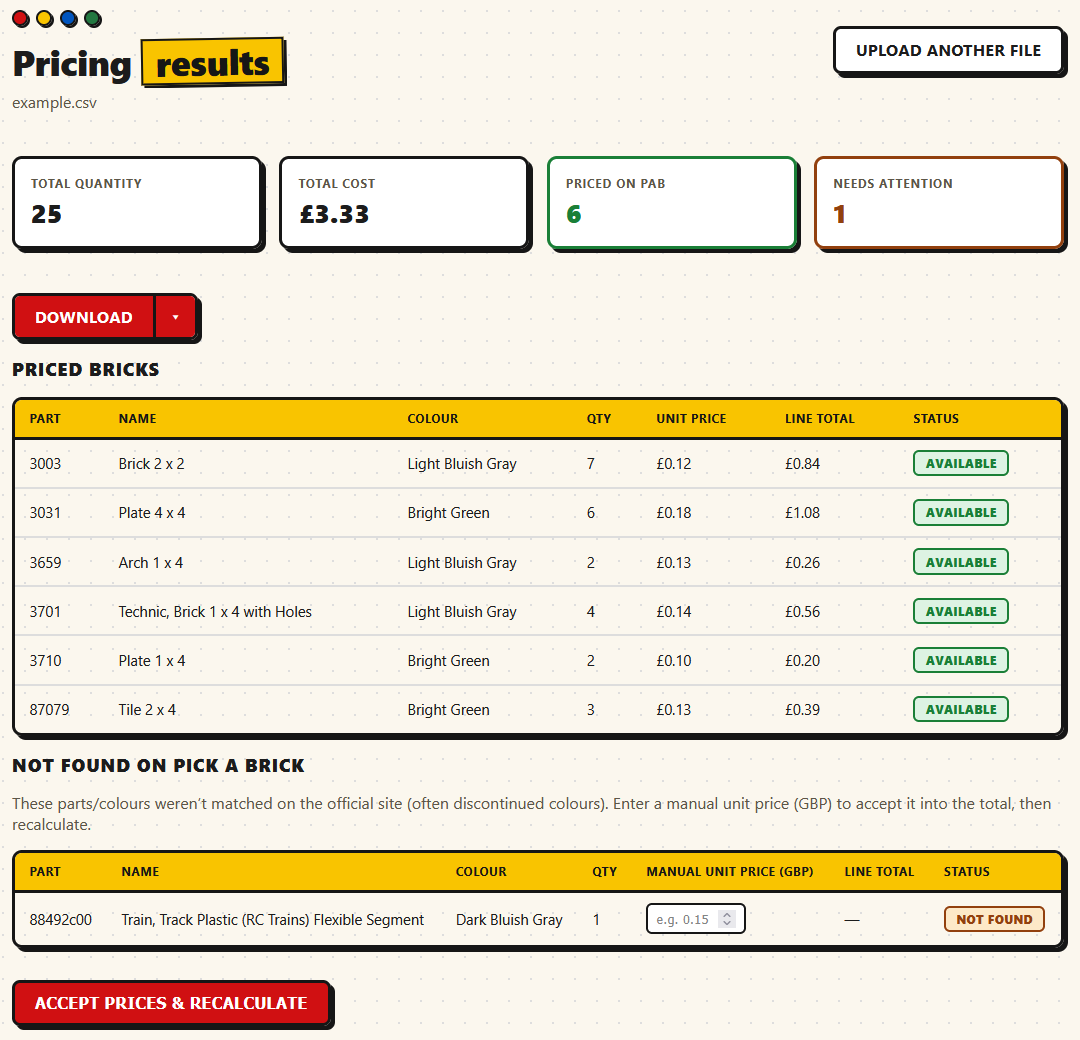
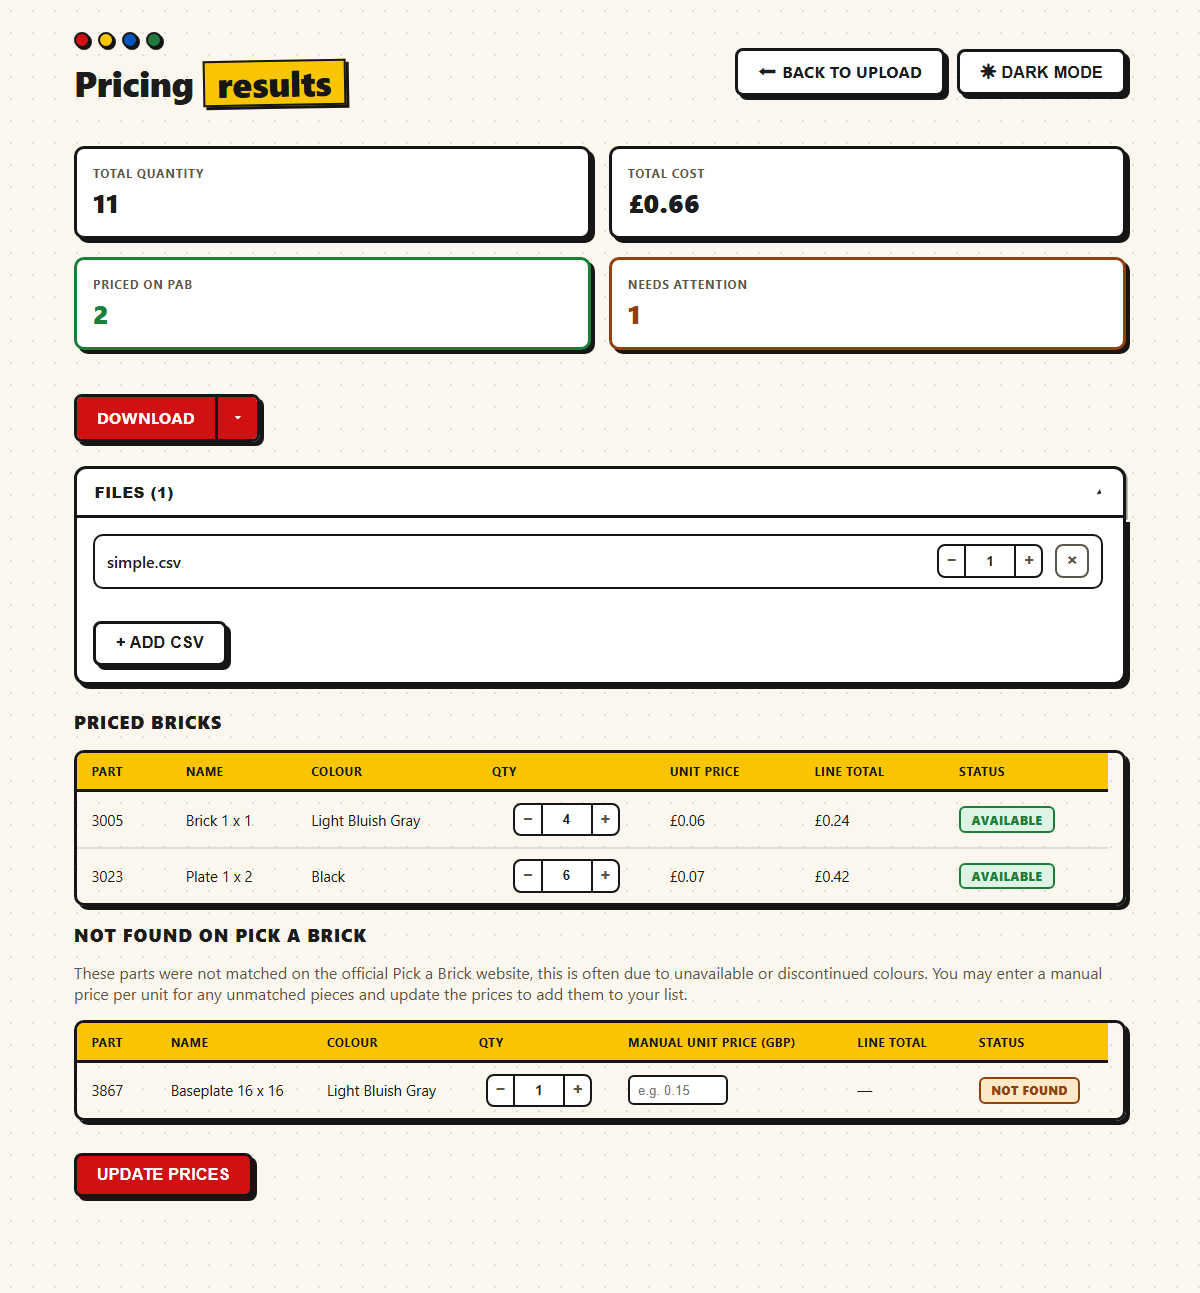
cleaning

diff --git a/README.md b/README.md
@@ -50,7 +50,27 @@ in the browser and on the server before pricing. You'll get:
     line total.
   - **Detailed** — every priced line item as-is.
 
-  Both are saved as `outputs/<timestamp>_simple.csv` / `outputs/<timestamp>_detailed.csv`.
+  Both are saved as `outputs/<timestamp>_simple.csv` / `outputs/<timestamp>_detailed.csv`,
+  and either can be dropped straight back into the upload form later to keep
+  editing — manual prices you'd already entered are preserved rather than lost.
+
+### Editing a batch after pricing
+
+Nothing on the results page requires re-uploading or leaves the page:
+
+- **Files panel** — add more CSVs to the batch, change a file's copy count, or
+  remove a file entirely (drag its copies to 0, or use its &times; button), each
+  applied instantly with the total recalculated in place.
+- **Per-piece quantity editing** — every row's Qty (both tables) has its own
+  +/&minus; stepper; dragging one to 0 removes just that piece. A quantity you set
+  by hand stays put even if you later change a file's copy count elsewhere in the
+  batch.
+- **Sortable columns** — click any column header (either table) to sort by it,
+  click again to reverse. Numeric columns sort numerically; the Qty and manual
+  price columns sort by their live edited value, not the original CSV order.
+- Manual prices, quantity edits, and the batch's file list all persist across a
+  server restart (see *Session storage*, below) — not just across page
+  navigation.
 
 ## Native (no Docker)
 
@@ -73,6 +93,43 @@ availability. Each row's exact `ElementId` is matched against that list.
 LEGO's site sits behind Cloudflare bot detection that blocks Python's `requests`
 library by TLS fingerprint but allows plain `curl` — so the fetcher shells out to
 `curl` instead of using a Python HTTP client.
+
+Distinct part numbers are looked up concurrently (default 4 at a time — each
+lookup spends nearly all its time waiting on network I/O, not CPU, so a small
+worker pool speeds up large CSVs several-fold without hammering LEGO's site).
+Tune it with `--workers` on the CLI; the web UI uses the same default.
+
+## Session storage
+
+Results-page state (uploaded files, copy counts, manual prices, quantity edits)
+is kept in a small SQLite database at `outputs/sessions.db`, not just in memory —
+a session survives a server/container restart, not only page navigation. Sessions
+older than 6 hours, or beyond 200 total, are swept automatically.
+
+## Security notes
+
+Meant to run behind an authenticating reverse proxy (e.g. an ALB + Cognito) for a
+handful of trusted users, not exposed raw on the internet. Regardless, the app
+itself applies: upload size/count limits, a CSRF token (double-submit cookie) on
+every state-changing request, baseline security headers (CSP, `X-Frame-Options`,
+`X-Content-Type-Options`, HSTS), and runs as a non-root user in Docker.
+
+## Testing
+
+```
+make install-dev   # installs test deps + Playwright's Chromium
+make test           # unit + API + end-to-end browser tests
+make test-unit       # pure functions (pricer, session store) only
+make test-api         # FastAPI route tests
+make test-e2e          # Playwright, driving a real server in a browser
+make audit             # pip-audit against both requirement files
+make docker-test        # the same `make test` suite, run inside a container
+```
+
+None of these hit the real `lego.com` — the pricing fetcher is monkeypatched to a
+small fake catalog (`tests/conftest.py`), so the suite is fast, deterministic, and
+offline. A GitHub Actions workflow (`.github/workflows/test.yml`) runs `make test`
+and `make audit` on every push and pull request.
 
 ## Input CSV format
 